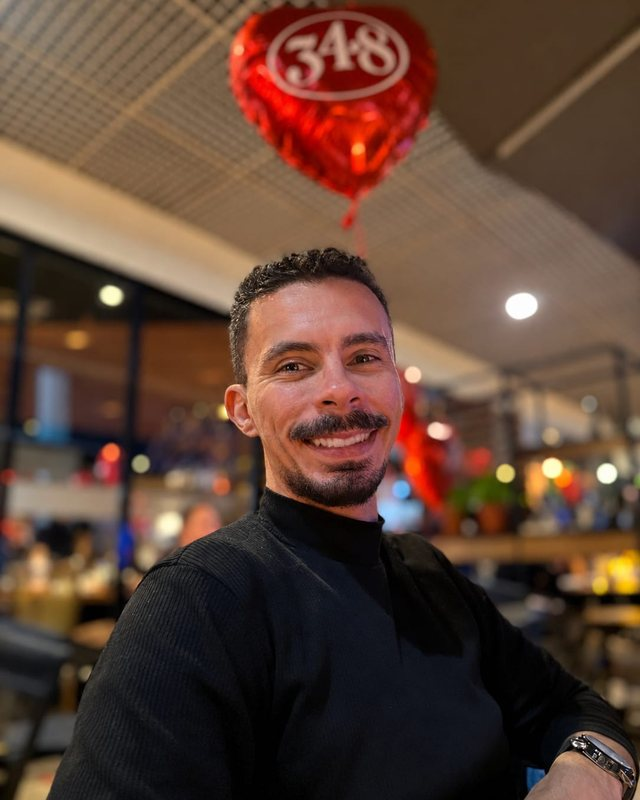
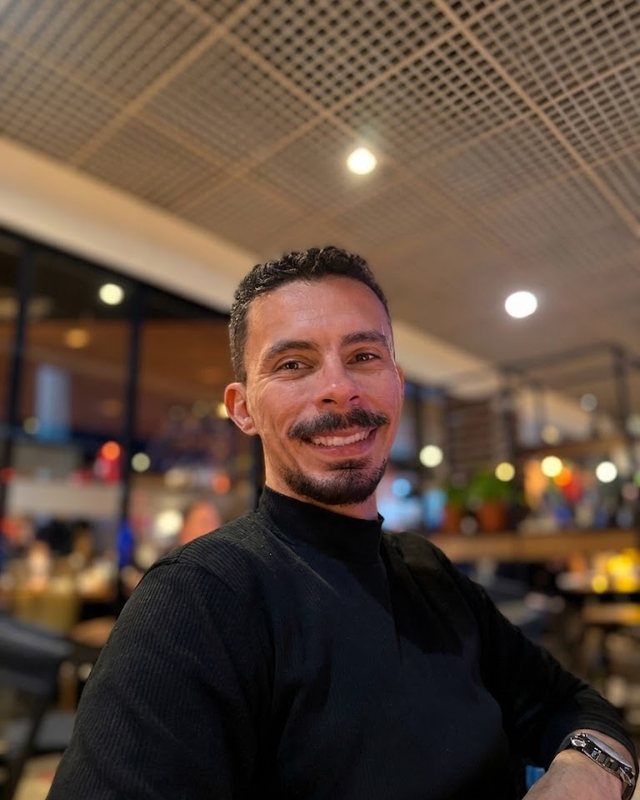
Try white cyan theme with animated circuit traces

diff --git a/index.html b/index.html
@@ -612,11 +612,154 @@
     .b > .b-c { opacity: 1; transform: none; transition: none; }
     #agents, #particles, .hud, #boot, .log, #fx, .flash, .done { display: none; }
   }
+  
+  /* Tema claro: branco, ciano e circuitos LED */
+  :root, :root:not([data-theme="light"]), :root[data-theme="dark"] {
+    --bg: #f7fbfc;
+    --bg-blueprint: #eff9fb;
+    --surface: rgba(255,255,255,.88);
+    --surface-solid: #ffffff;
+    --line: #cfe3e8;
+    --text: #18333b;
+    --muted: #5d747b;
+    --neon: #00c4dc;
+    --neon-soft: rgba(0,196,220,.13);
+    --cyan: #008da5;
+    --cyan-soft: rgba(0,174,199,.10);
+    --lime: #00aebe;
+    --wire: #00c4dc;
+    color-scheme: light;
+  }
+  html, body { background: var(--bg); color: var(--text); }
+  body::before { background: rgba(247,251,252,.82); }
+  body.blueprint {
+    background-color: var(--bg-blueprint);
+    background-image:
+      linear-gradient(rgba(0,174,199,.075) 1px, transparent 1px),
+      linear-gradient(90deg, rgba(0,174,199,.075) 1px, transparent 1px);
+  }
+  header.top { background: rgba(249,253,254,.86); border-bottom-color: rgba(28,72,83,.16); }
+  .brand i { background: var(--neon); color: #06313a; box-shadow: 0 0 16px rgba(0,196,220,.45); }
+  .avail a, .btn.ghost { color: var(--cyan); }
+  .b::before {
+    background:
+      linear-gradient(#fff,#fff) 0 0 / 7px 7px no-repeat,
+      linear-gradient(#fff,#fff) 100% 0 / 7px 7px no-repeat,
+      linear-gradient(#fff,#fff) 0 100% / 7px 7px no-repeat,
+      linear-gradient(#fff,#fff) 100% 100% / 7px 7px no-repeat,
+      rgba(0,174,199,.06);
+  }
+  .b::after { color: #06313a; }
+  .redline, .redline::before, .redline::after { background: var(--neon); }
+  .redline { --sc: var(--neon); }
+  .ico { color: var(--cyan); filter: drop-shadow(0 0 6px rgba(0,174,199,.35)); }
+  .log p { color: #d7eef2; background: rgba(14,38,45,.88); border-color: #47737d; }
+  .log p em { color: #fff; }
+  .agent span { color: #08343c; }
+  .menu-btn i { background: var(--text); }
+  .mnav { background: rgba(247,251,252,.97); }
+  .mnav a { color: var(--text); }
+  .mnav a small, .mnav-foot .dot { color: var(--cyan); }
+  .mnav-foot .dot { background: var(--neon); box-shadow: 0 0 8px rgba(0,196,220,.55); }
+  .mnav a:active { color: var(--cyan); }
+  .hero-grid { color: var(--text); }
+  .giant { color: rgba(0,196,220,.035); -webkit-text-stroke-color: var(--neon); filter: drop-shadow(0 0 9px rgba(0,174,199,.42)) drop-shadow(0 0 24px rgba(0,174,199,.2)); }
+  .name { color: #07343c; box-shadow: 0 0 24px rgba(0,174,199,.3), 0 0 60px rgba(0,174,199,.12); }
+  .pill .b-c { color: var(--text); }
+  .pill .b-c::before { background: var(--neon); box-shadow: 0 0 8px rgba(0,196,220,.55); }
+  .lead, .about-text p, .card .desc { color: #38555e; }
+  .lead strong, .about-text strong { color: #12343d; }
+  .btn.ghost:hover { border-color: var(--cyan); box-shadow: 0 0 16px rgba(0,174,199,.25); }
+  .btn.solid { background: #fff; color: var(--text); border-color: var(--line); }
+  .btn.solid:hover { border-color: var(--neon); box-shadow: 0 0 18px rgba(0,174,199,.22); }
+  .btn.neon { background: var(--neon); color: #07343c; box-shadow: 0 0 22px rgba(0,174,199,.34); }
+  .btn.neon:hover { box-shadow: 0 0 34px rgba(0,174,199,.5); }
+  .photo-wrap .frame { border-color: var(--neon); box-shadow: 0 0 18px rgba(0,174,199,.42); }
+  .photo img { filter: grayscale(.36) contrast(1.06); }
+  .photo::before {
+    background: linear-gradient(to bottom, rgba(0,196,220,.48) 0%, rgba(0,196,220,.39) 58%, rgba(0,196,220,.3) 100%);
+  }
+  .stat strong, .kicker .b-c, .metric strong, .layer-panel small { color: var(--cyan); }
+  .stat strong { text-shadow: 0 0 12px rgba(0,174,199,.3); }
+  .quote .b-c { border-left-color: var(--cyan); background: rgba(0,174,199,.08); box-shadow: -6px 0 22px -10px var(--cyan); }
+  .card.featured > .b-c { border-color: rgba(0,174,199,.35); box-shadow: 0 0 40px -12px rgba(0,174,199,.2); }
+  .tag { color: var(--cyan); background: rgba(0,174,199,.08); border-color: rgba(0,174,199,.26); }
+  .tag.c { color: #007e94; background: rgba(0,174,199,.08); border-color: rgba(0,174,199,.25); }
+  .layers button { color: var(--text); background: #f5fafb; border-color: var(--line); }
+  .layers button:hover, .hud button:hover { border-color: var(--cyan); }
+  .layers button[aria-selected="true"], .filters button[aria-pressed="true"] { background: var(--neon); color: #07343c; border-color: var(--neon); box-shadow: 0 0 16px rgba(0,174,199,.28); }
+  .layer-panel { color: var(--text); }
+  .chips li { background: #f2f9fa; border-color: var(--line); color: #35545d; }
+  .filters button { color: var(--text); }
+  .filters button:hover { border-color: var(--line); }
+  .sys:hover > .b-c { border-color: rgba(0,174,199,.4); box-shadow: 0 0 30px -10px rgba(0,174,199,.25); }
+  .contact .h2 { color: var(--text); }
+  footer { color: var(--muted); }
+  .hud { background: rgba(255,255,255,.9); border-color: var(--line); color: var(--text); box-shadow: 0 10px 40px rgba(30,78,89,.15); }
+  .dots i { border-color: #fff; }
+  .bar { background: #d9e8eb; }
+  .bar i { background: var(--cyan); box-shadow: 0 0 8px rgba(0,174,199,.35); }
+  .hud button { color: var(--text); background: #f5fafb; border-color: var(--line); }
+  .hud button.on { background: var(--neon); color: #07343c; border-color: var(--neon); box-shadow: 0 0 12px rgba(0,174,199,.35); }
+  .hero .btn.ghost { border-color: rgba(0,174,199,.25); }
+  .snip { color: #dcf5f8; background: rgba(14,38,45,.96); border-color: #47737d; }
+  .flash { background: radial-gradient(circle at 50% 50%, rgba(255,255,255,.92), rgba(0,196,220,.38) 35%, transparent 70%); }
+  .flash.go::after { box-shadow: 0 0 24px 6px rgba(0,196,220,.75); }
+  .done { background: #07171d; }
+  .done-card { color: #e8fbfe; background: rgba(7,22,27,.98); border-color: rgba(0,196,220,.68); box-shadow: 0 0 55px -12px rgba(0,196,220,.38), 0 30px 90px rgba(0,0,0,.6); }
+  .terminal-head { background: #10262d; border-bottom-color: #27444b; color: #a8ccd2; }
+  .terminal-lights i { background: #00c4dc; }
+  .terminal-lights i:nth-child(2) { background: #66e8f3; }
+  .terminal-lights i:nth-child(3) { background: #a4f1f5; }
+  .terminal-title, .terminal-link { color: #e8fbfe; }
+  .terminal-status, .terminal-prompt, .terminal-arrow { color: #00cfe8; }
+  .terminal-instruction { color: #a8ccd2; }
+  .terminal-link { border-color: #27444b; }
+  .terminal-link:hover { border-color: #00c4dc; background: rgba(0,196,220,.1); box-shadow: 0 0 20px rgba(0,196,220,.18); }
+  #doneClose { color: #a8ccd2; }
+  #doneClose:hover { color: #fff; }
+  .circuit-overlay {
+    position: fixed; inset: 0; z-index: 0; overflow: hidden; pointer-events: none;
+    color: #00cfe8; opacity: .27;
+  }
+  .circuit-overlay svg { width: 100%; height: 100%; max-width: none; }
+  .circuit-traces { fill: none; stroke: currentColor; stroke-width: 1.35; stroke-dasharray: 7 18; stroke-linecap: round; filter: drop-shadow(0 0 3px rgba(0,196,220,.45)); }
+  .circuit-traces path { animation: circuitFlow 9s linear infinite; }
+  .circuit-traces path:nth-child(2n) { animation-duration: 13s; animation-direction: reverse; }
+  .circuit-traces path:nth-child(3n) { animation-delay: -4s; }
+  .circuit-nodes { fill: currentColor; filter: drop-shadow(0 0 5px rgba(0,196,220,.7)); animation: circuitPulse 2s ease-in-out infinite alternate; transform-origin: center; }
+  @keyframes circuitFlow { to { stroke-dashoffset: -220; } }
+  @keyframes circuitPulse { from { opacity: .35; } to { opacity: 1; } }
+  @media (prefers-reduced-motion: reduce) {
+    .circuit-traces path, .circuit-nodes { animation: none; }
+  }
+
 </style>
 </head>
 <body class="locked">
 
 <canvas id="particles" aria-hidden="true"></canvas>
+<div class="circuit-overlay" aria-hidden="true">
+  <svg viewBox="0 0 1440 900" preserveAspectRatio="xMidYMid slice">
+    <g class="circuit-traces">
+      <path d="M0 74h82v54h68v54h82v72h92"/>
+      <path d="M0 322h94v-64h76v-58h96v-64h68"/>
+      <path d="M0 598h86v-70h88v-62h94v-58h80"/>
+      <path d="M0 842h92v-58h108v-72h76"/>
+      <path d="M1440 92h-90v70h-76v62h-94v66h-82"/>
+      <path d="M1440 354h-110v-62h-80v-60h-96"/>
+      <path d="M1440 622h-86v-68h-96v-62h-94v-54h-68"/>
+      <path d="M1440 842h-94v-60h-102v-70h-78"/>
+      <path d="M210 0v48h82v52h72"/>
+      <path d="M1210 0v42h-82v58h-74"/>
+    </g>
+    <g class="circuit-nodes">
+      <circle cx="324" cy="326" r="3"/><circle cx="300" cy="598" r="3"/>
+      <circle cx="1098" cy="290" r="3"/><circle cx="1096" cy="438" r="3"/>
+      <circle cx="292" cy="100" r="3"/><circle cx="1128" cy="100" r="3"/>
+    </g>
+  </svg>
+</div>
 <div id="agents" aria-hidden="true"></div>
 <div id="boot" aria-hidden="true"><pre></pre></div>
 <div id="fx" aria-hidden="true"></div>
@@ -1085,7 +1228,7 @@
 
   // ---------- Agentes ----------
   const names = ['planejador', 'código', 'design', 'revisor', 'pesquisa', 'testes', 'memória', 'roteador', 'deploy', 'texto', 'visão', 'dados', 'ops', 'layout', 'estilo', 'grid', 'motion', 'qa', 'mcp', 'infra'];
-  const colors = ['#39ff14', '#92ff7a', '#c3ff7a', '#a9ff5e', '#69ff98', '#8eff5d', '#52ffac', '#efffef'];
+  const colors = ['#00cfe8', '#00a7c2', '#66e8f3', '#159eb1', '#78eaf3', '#a4f1f5', '#31c8d3', '#294b52'];
   const layer = $('agents');
   const agents = [];
   tick();
@@ -1258,7 +1401,7 @@
     `<svg viewBox="0 0 24 24" ${SW}><path d="M5 15c-1.5 1.3-2 5-2 5s3.7-.5 5-2M9 15l-3-3c1-4 4-8 13-9-1 9-5 12-9 13z"/><circle cx="15" cy="9" r="1.5"/></svg>`
   ];
   const FONTS = ['Orbitron', 'Press Start 2P', 'Playfair Display', 'Bungee', 'VT323', 'Monoton', 'Space Mono', 'Caveat Brush', 'Anton'];
-  const ACCENTS = ['#39ff14', '#22e06b', '#a9ff5e', '#69ff98', '#52ffac', '#8eff5d'];
+  const ACCENTS = ['#00cfe8', '#00a7c2', '#66e8f3', '#159eb1', '#78eaf3', '#a4f1f5'];
   const TEXT_SEL = '.hello, .name, .h2, .core h3, .sys h3, .card h3, .stat strong, .metric strong, .kicker .b-c, .pill .b-c';
   let iconCount = 0;
 
